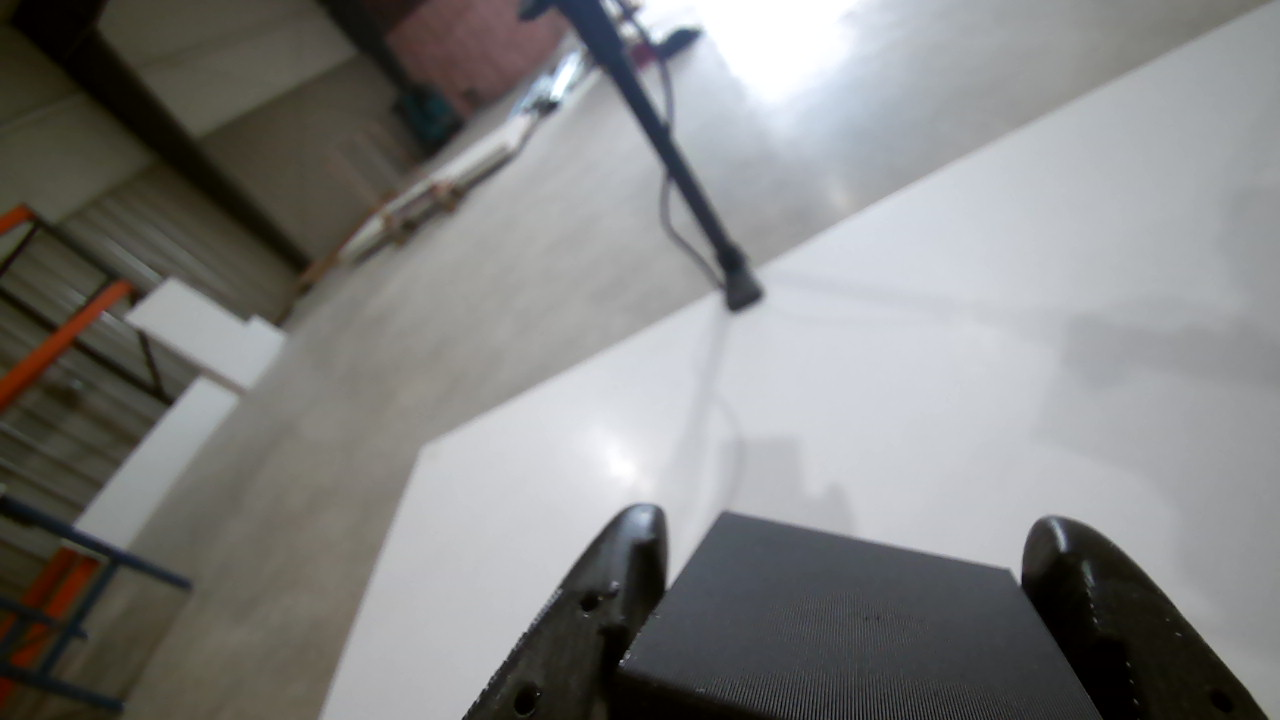
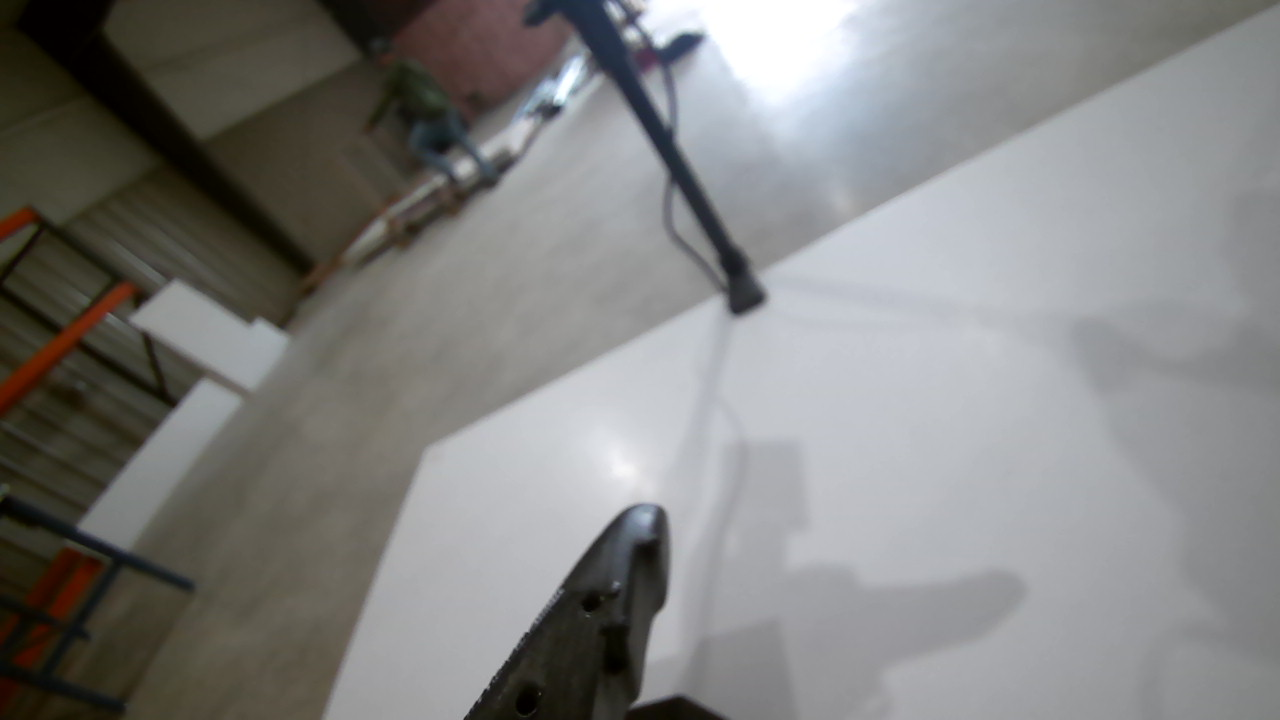
Update tools for arm-007__gpt-6-astra__grasp-cube
{"agent_id": "arm-007__gpt-6-astra__grasp-cube", "designation": "arm-007", "identity_version": 2, "model": "gpt-6-astra", "provider": "codex", "task_definition": {"description": "Start episode, pickup the black cube, bring black cube to home position, confirm successful grasp, stop episode, return object to new position, return home, repeat", "id": "grasp-cube", "success_criteria": ["successful episode coverage across the entire workspace", "achieve at least 50 successful episodes an hour"], "version": 2}, "task_id": "grasp-cube", "task_sha256": "e6c8adbb1562fdc6af3405e2e618046b110e27856c520c9f5cd329c258fb3818", "task_version": 2, "tools_sha256": "961428e00e80bbe6cc66d6d2f952cfa77d7926ec8783833e3dd9910ea1602e55"}

diff --git a/agents/arm-007__gpt-6-astra__grasp-cube/cube_cycles.py b/agents/arm-007__gpt-6-astra__grasp-cube/cube_cycles.py
@@ -50,8 +50,9 @@ def held(b):
  dark=float(np.mean(cv2.cvtColor(img[500:650,730:1030],cv2.COLOR_BGR2GRAY)<100))
  p=b.read('Present_Position','gripper')
  upper_dark=float(np.mean(cv2.cvtColor(img[300:490,750:1000],cv2.COLOR_BGR2GRAY)<100))
- ok=15<p<35 and (dark>.85 or upper_dark>.95)
- return ok,dict(gripper=p,wrist_dark=dark,upper_dark=upper_dark,frame_seq=meta['seq'])
+ bottom_dark=float(np.mean(cv2.cvtColor(img[620:700,750:1000],cv2.COLOR_BGR2GRAY)<100))
+ ok=15<p<35 and (dark>.85 or upper_dark>.95 or bottom_dark>.95)
+ return ok,dict(gripper=p,wrist_dark=dark,upper_dark=upper_dark,bottom_dark=bottom_dark,frame_seq=meta['seq'])
 def run(n):
  if Path('tools/cube_recovery_required.json').exists():
   raise RuntimeError('Re-localize cube and validate pickup before clearing tools/cube_recovery_required.json')
